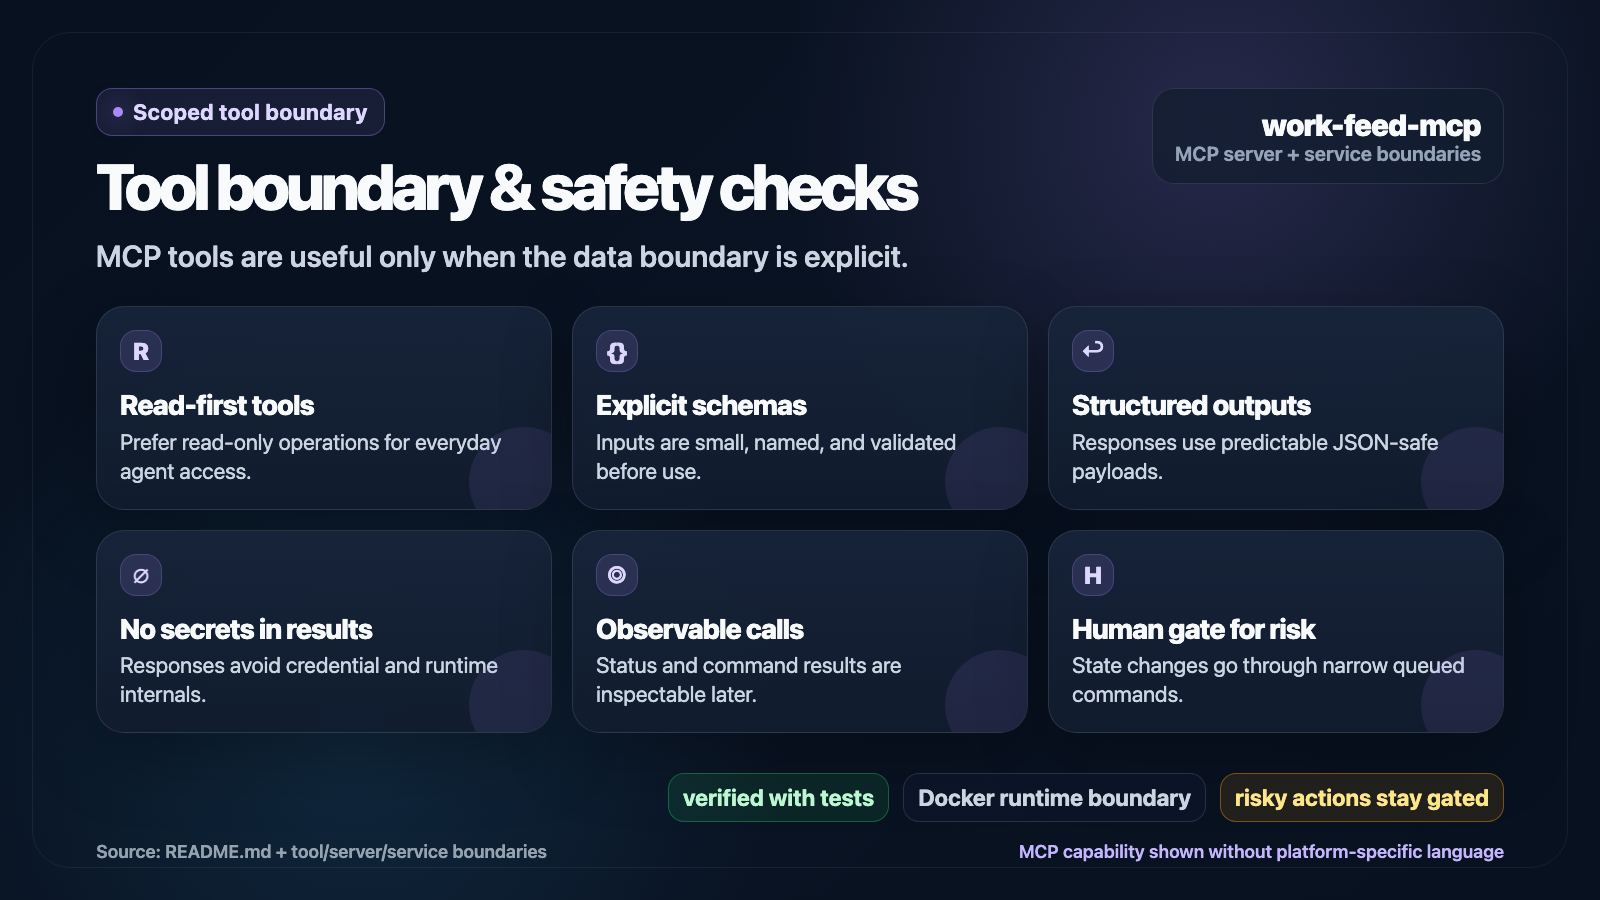
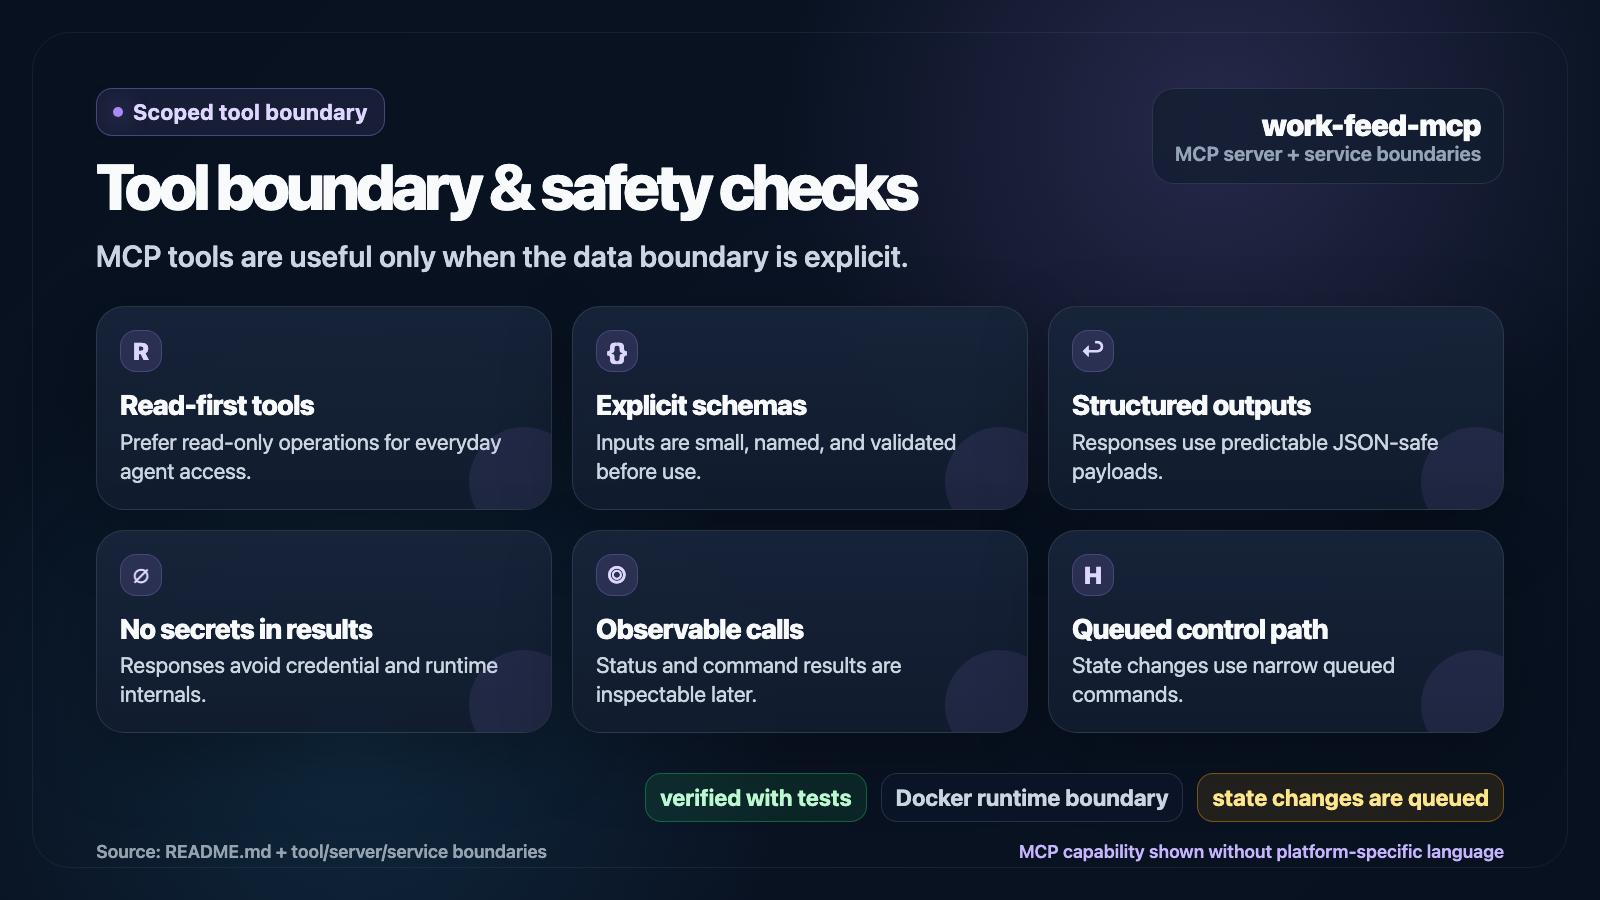
docs(portfolio): correct mcp safety wording
Reword the public safety asset from an unsupported human gate claim to the queued-control path implemented by the MCP service boundary.

Tested: python docs/portfolio/upwork/scripts/render-assets.py; file/sips dimensions 1600x900; forbidden public-term and human-gate scan over portfolio source.

Changed region(s): [[0.4062, 0.84, 0.9062, 0.9333], [0.6562, 0.6844, 0.9062, 0.7467]]

diff --git a/docs/portfolio/upwork/source/mcp-safety-boundary.html b/docs/portfolio/upwork/source/mcp-safety-boundary.html
@@ -45,15 +45,15 @@
       </article>
       <article class="card boundary-card">
         <div class="icon">H</div>
-        <h2>Human gate for risk</h2>
-        <p>State changes go through narrow queued commands.</p>
+        <h2>Queued control path</h2>
+        <p>State changes use narrow queued commands.</p>
       </article>
     </section>
 
     <div class="ribbon">
       <span class="badge success">verified with tests</span>
       <span class="badge">Docker runtime boundary</span>
-      <span class="badge warn">risky actions stay gated</span>
+      <span class="badge warn">state changes are queued</span>
     </div>
 
     <div class="footer">